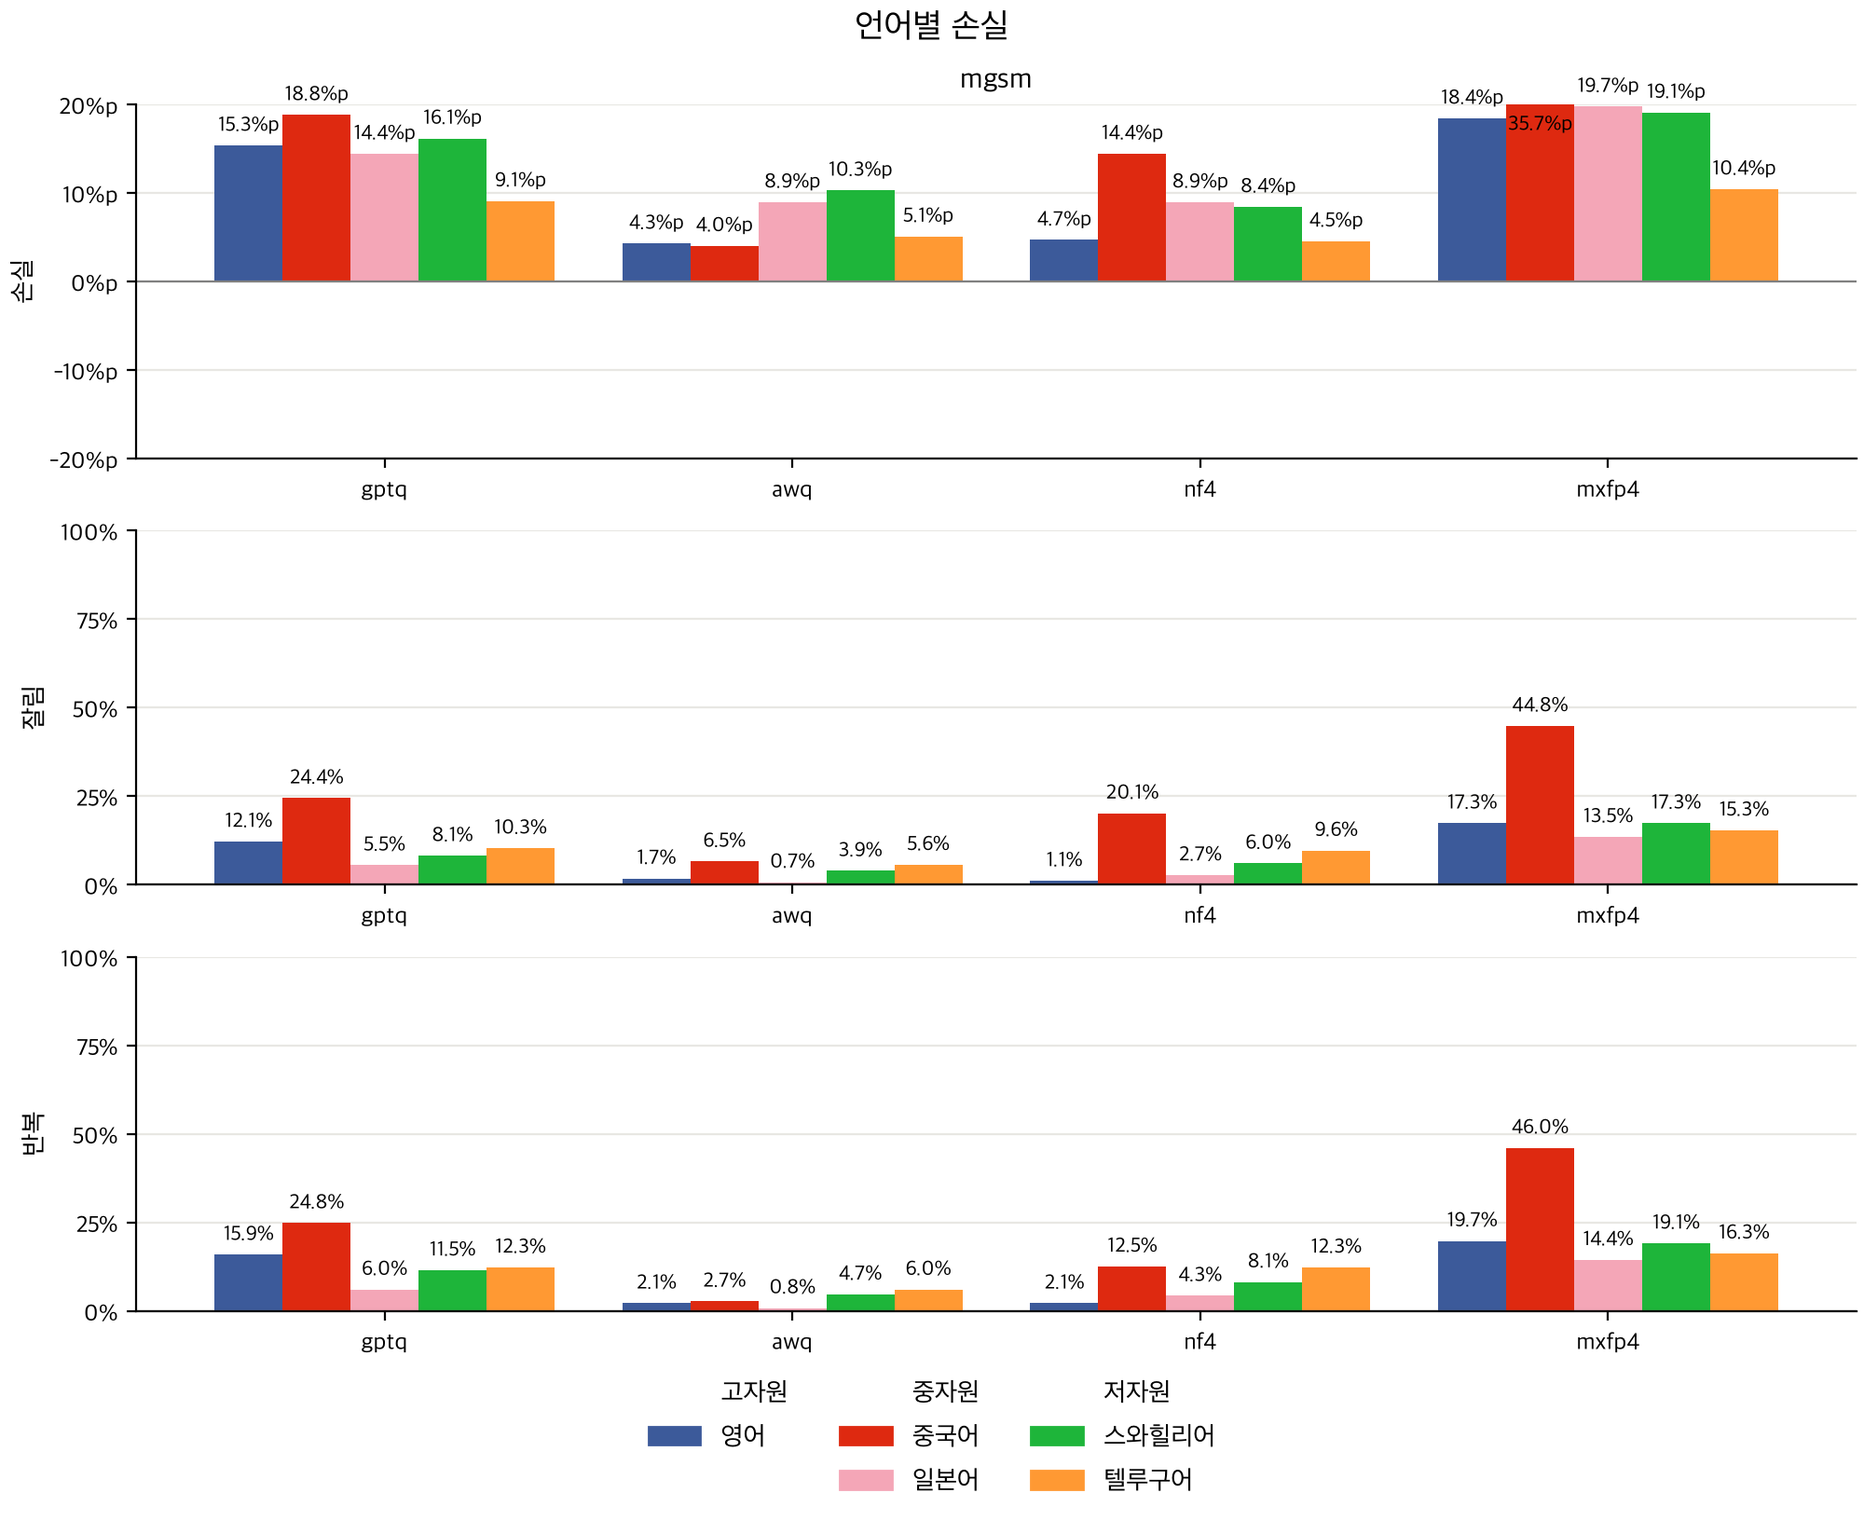
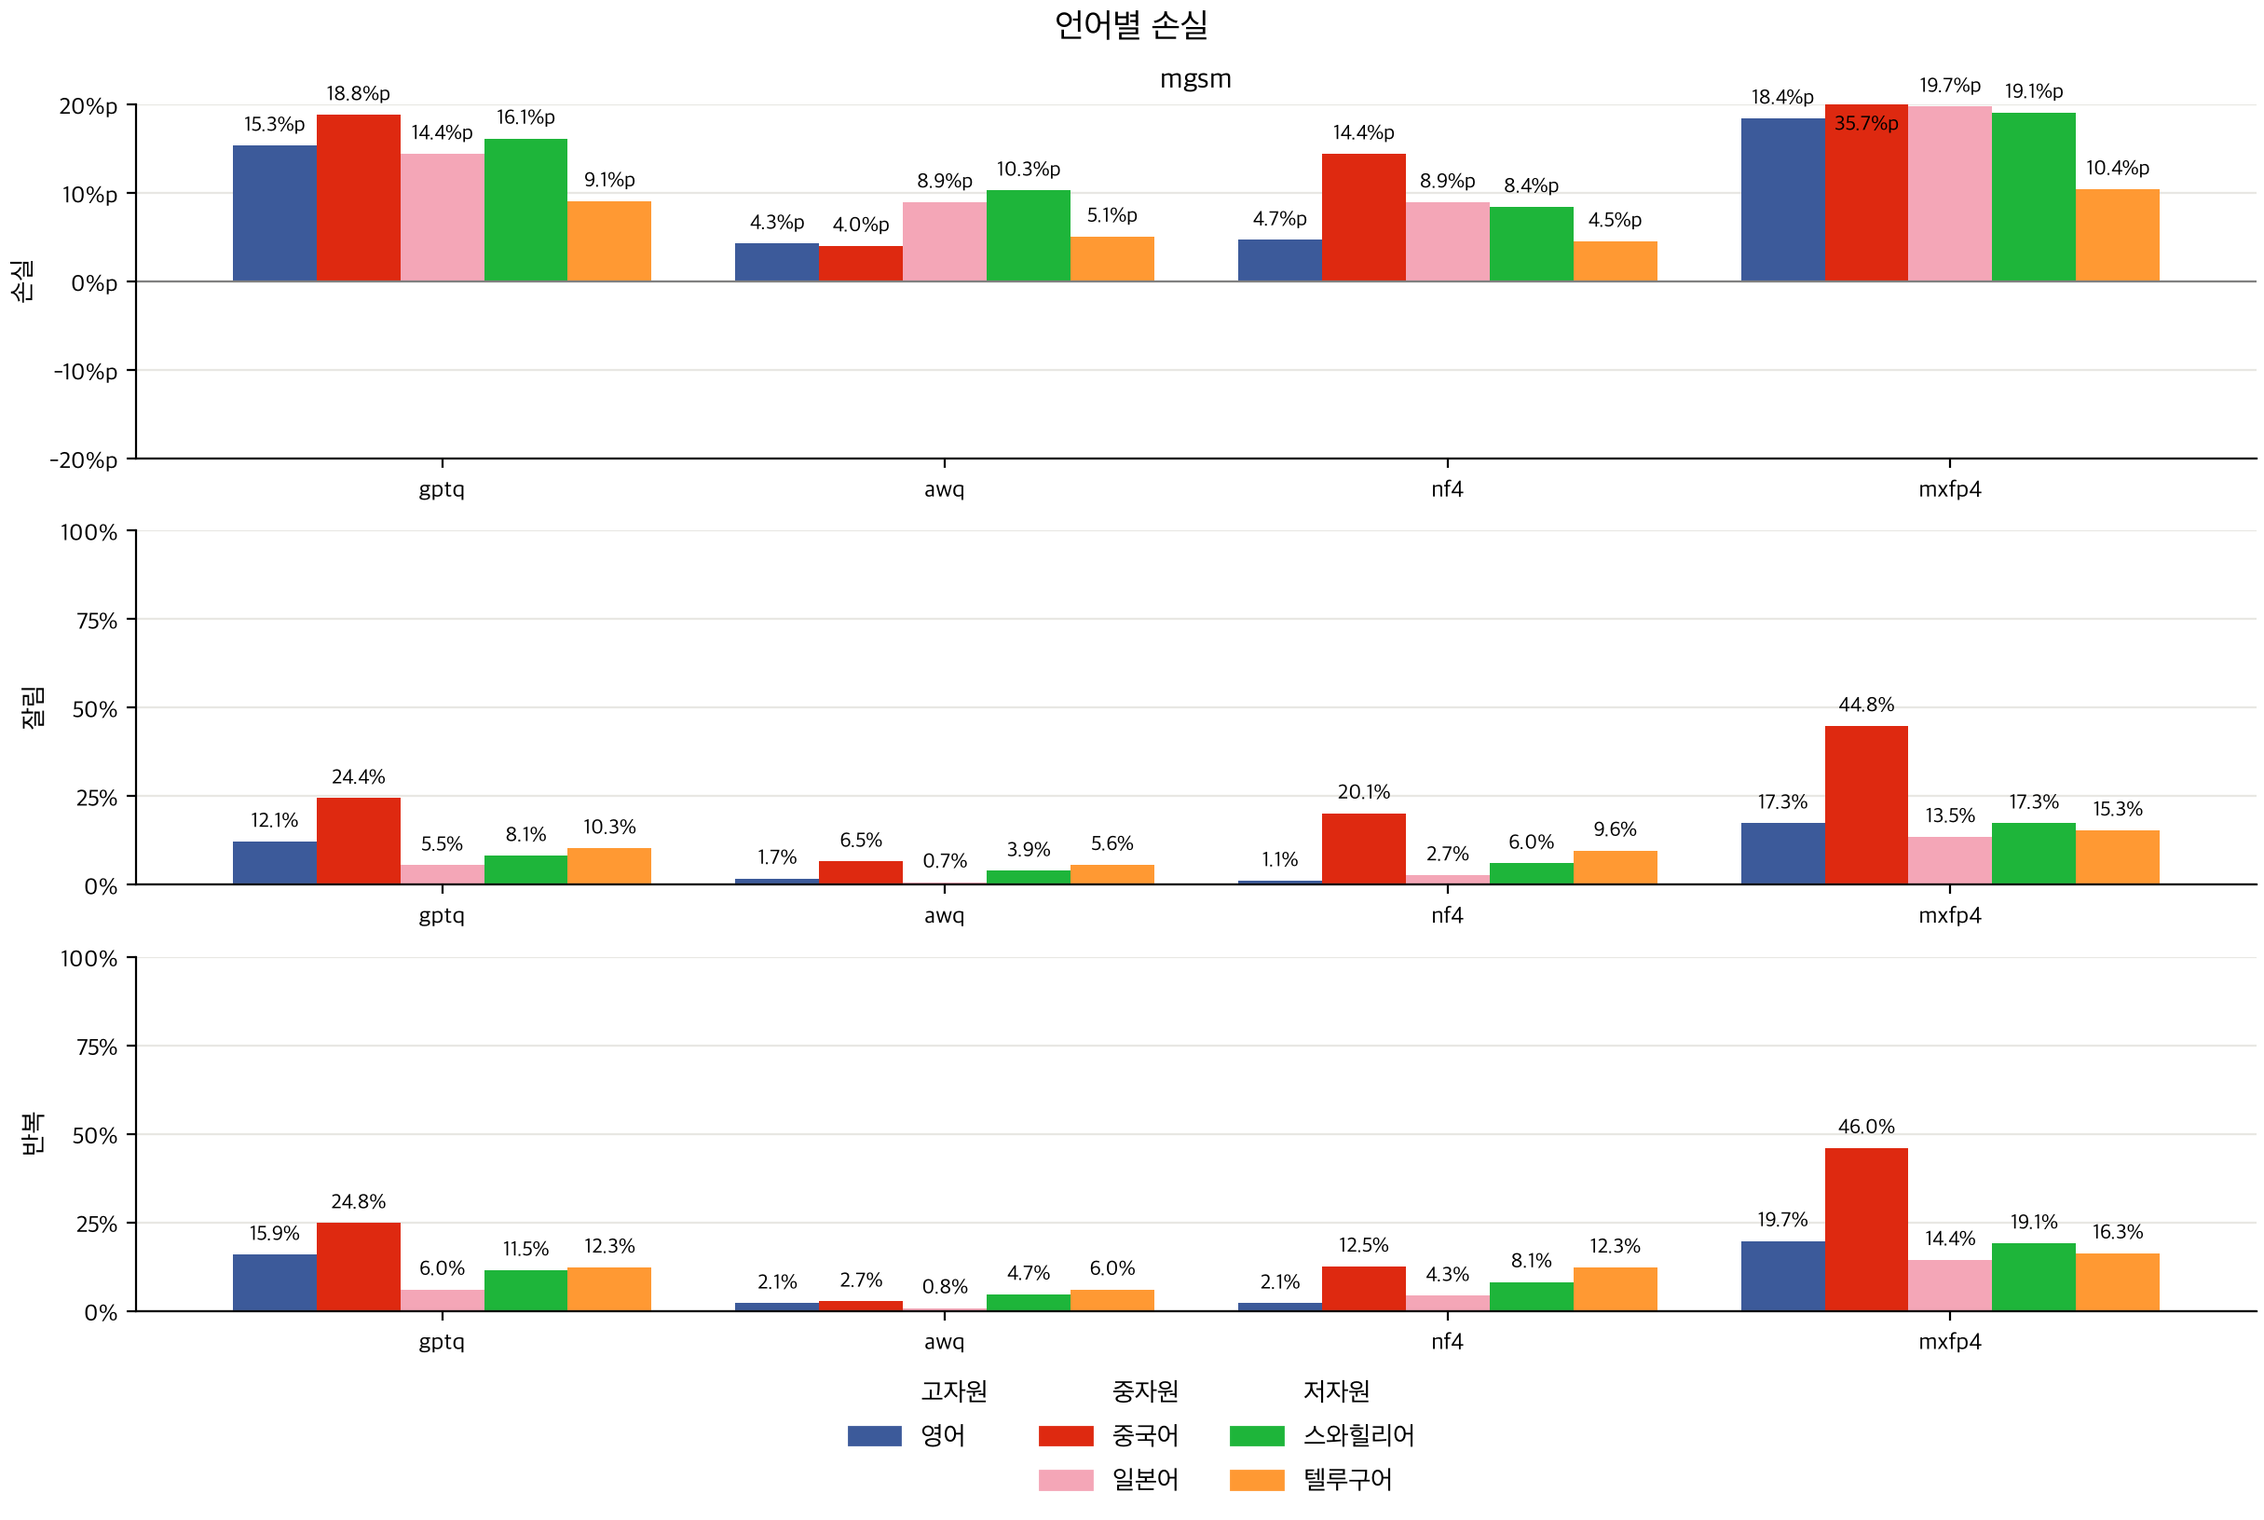
plot 막대 폭 변경

diff --git a/utils/plot.py b/utils/plot.py
@@ -3,6 +3,7 @@ from statistics import mean
 from typing import Literal, TypeAlias
 
 from matplotlib.axes import Axes
+from matplotlib.container import BarContainer
 from matplotlib.figure import Figure
 from matplotlib.patches import Patch
 import matplotlib.pyplot as plt
@@ -27,7 +28,8 @@ POSITION_LABELS = ["0~20%", "20~40%", "40~60%", "60~80%", "80~100%"]
 PANEL_HEIGHT = 1.9
 FIGURE_HEIGHT_MARGIN = 1.6
 NUM_FIT_STEPS = 3
-NUM_GROUP_SLOTS = 5
+BAR_WIDTH = 0.45
+INITIAL_FIGURE_WIDTH = 10
 
 Unit: TypeAlias = Literal["%p", "%", "배"]
 
@@ -150,15 +152,6 @@ def plot_insert_bars(
     _set_yaxis(ax, "%p")
 
 
-def set_group_xlim(
-    ax: Axes,
-    num_groups: int,
-) -> None:
-    num_group_slots = max(num_groups, NUM_GROUP_SLOTS)
-    center = (num_groups - 1) * GROUP_WIDTH / 2
-    ax.set_xlim(center - num_group_slots * GROUP_WIDTH / 2, center + num_group_slots * GROUP_WIDTH / 2)
-
-
 def make_insert_handles(
     no_insert_label: str,
     insert_label: str,
@@ -197,7 +190,7 @@ def make_problem_count_labels(
 
 def compute_figure_size(
     num_rows: int,
-    width: float,
+    width: float = INITIAL_FIGURE_WIDTH,
 ) -> tuple[float, float]:
     return width, num_rows * PANEL_HEIGHT + FIGURE_HEIGHT_MARGIN
 
@@ -213,11 +206,39 @@ def _fit_panel_height(
         fig.set_size_inches(width, height + (PANEL_HEIGHT - panel_height) * num_rows)
 
 
+def _fit_bar_width(
+    fig: Figure,
+) -> None:
+    bar_axes = []
+    for ax in fig.axes:
+        if ax.containers and isinstance(ax.containers[0], BarContainer):
+            bar_axes.append(ax)
+    if not bar_axes:
+        return
+    widest_ax = bar_axes[0]
+    for ax in bar_axes:
+        if ax.get_xlim()[1] - ax.get_xlim()[0] > widest_ax.get_xlim()[1] - widest_ax.get_xlim()[0]:
+            widest_ax = ax
+    widest_xmin, widest_xmax = widest_ax.get_xlim()
+    xlim_len = widest_xmax - widest_xmin
+    for ax in bar_axes:
+        offset = widest_ax.get_xticks()[-1] - ax.get_xticks()[-1]
+        ax.set_xlim(widest_xmin - offset, widest_xmax - offset)
+    bar_data_width = bar_axes[0].containers[0].patches[0].get_width()
+    num_columns = bar_axes[0].get_subplotspec().get_gridspec().ncols
+    for _ in range(NUM_FIT_STEPS):
+        fig.canvas.draw()
+        bar_width = bar_data_width * bar_axes[0].get_window_extent().width / fig.dpi / xlim_len
+        width, height = fig.get_size_inches()
+        fig.set_size_inches(width + (BAR_WIDTH - bar_width) * xlim_len / bar_data_width * num_columns, height)
+
+
 def save_figure(
     fig: Figure,
     model_name: str,
     figure_name: str,
 ) -> None:
+    _fit_bar_width(fig)
     _fit_panel_height(fig)
     path = Path("figures") / model_name.split("/")[1] / f"{figure_name}.png"
     path.parent.mkdir(parents=True, exist_ok=True)

diff --git a/plots/bf16_translation_insert.py b/plots/bf16_translation_insert.py
@@ -5,10 +5,8 @@ from simple_parsing import parse
 
 from utils.hub import load_bf16_results, load_results
 from utils.path import extract_method, extract_model_name, make_result_dir
-from utils.plot import LANGUAGE_NAMES, add_language_legend, compute_figure_size, make_insert_handles, plot_insert_bars, save_figure, set_group_xlim
+from utils.plot import LANGUAGE_NAMES, add_language_legend, compute_figure_size, make_insert_handles, plot_insert_bars, save_figure
 from utils.score import compute_accuracy_loss_pairs
-
-FIGURE_WIDTH = 15
 
 
 @dataclass
@@ -29,10 +27,9 @@ def main() -> None:
     all_no_insert_results = [load_results(make_result_dir("loss", "mgsm"), model_hub_path, config.max_generation_len, config.seeds) for model_hub_path in config.model_hub_paths]
     all_insert_results = [load_results(make_result_dir("bf16_translation_insert", "mgsm"), model_hub_path, config.max_generation_len, config.seeds) for model_hub_path in config.model_hub_paths]
 
-    fig, ax = plt.subplots(figsize=compute_figure_size(1, FIGURE_WIDTH), layout="constrained")
+    fig, ax = plt.subplots(figsize=compute_figure_size(1), layout="constrained")
     plot_insert_bars(ax, methods, compute_accuracy_loss_pairs(bf16_results, all_no_insert_results, all_insert_results), [])
     ax.set_ylabel("손실")
-    set_group_xlim(ax, len(methods))
 
     fig.suptitle("bf16 번역 삽입")
     add_language_legend(fig, LANGUAGE_NAMES, make_insert_handles("삽입 없음", "삽입"))

diff --git a/plots/qat_comparison.py b/plots/qat_comparison.py
@@ -6,10 +6,8 @@ from simple_parsing import parse
 from utils.dataset import Benchmark
 from utils.hub import load_bf16_results, load_results
 from utils.path import extract_method, extract_model_name, make_result_dir
-from utils.plot import LANGUAGE_NAMES, add_language_legend, compute_figure_size, plot_language_bars, save_figure, set_group_xlim
+from utils.plot import LANGUAGE_NAMES, add_language_legend, compute_figure_size, plot_language_bars, save_figure
 from utils.score import compute_accuracy_losses
-
-FIGURE_WIDTH = 15
 
 
 @dataclass
@@ -48,10 +46,9 @@ def main() -> None:
     bf16_results = load_bf16_results(config.benchmark, model_name, config.max_generation_len, config.seeds)
     all_results = [load_results(make_result_dir("loss", config.benchmark), model_hub_path, config.max_generation_len, config.seeds) for model_hub_path in config.model_hub_paths]
 
-    fig, ax = plt.subplots(figsize=compute_figure_size(1, FIGURE_WIDTH), layout="constrained")
+    fig, ax = plt.subplots(figsize=compute_figure_size(1), layout="constrained")
     plot_language_bars(ax, group_names, compute_accuracy_losses(bf16_results, all_results), "%p")
     ax.set_ylabel("손실")
-    set_group_xlim(ax, len(group_names))
 
     fig.suptitle("qat 비교")
     add_language_legend(fig, LANGUAGE_NAMES)

diff --git a/plots/reasoning_prefix_insert.py b/plots/reasoning_prefix_insert.py
@@ -11,7 +11,6 @@ from utils.score import compute_insert_losses
 from utils.understanding import LENGTH_RATIOS
 
 LENGTH_RATIO_NAMES = ["understanding 0.5배", "understanding 0.75배", "understanding 1배", "understanding 1.5배", "understanding 2배"]
-FIGURE_WIDTH = 12
 
 
 @dataclass
@@ -35,7 +34,7 @@ def main() -> None:
     for language in LANGUAGES:
         problem_indices_by_language[language] = {seed: set(result[language]["inserted_problem_indices"]) for seed, result in first_ratio_results.items()}
 
-    fig, axes = plt.subplots(len(config.model_hub_paths), 1, figsize=compute_figure_size(len(config.model_hub_paths), FIGURE_WIDTH), squeeze=False, layout="constrained")
+    fig, axes = plt.subplots(len(config.model_hub_paths), 1, figsize=compute_figure_size(len(config.model_hub_paths)), squeeze=False, layout="constrained")
     for ax, model_hub_path in zip(axes[:, 0], config.model_hub_paths):
         no_insert_results = load_results(make_result_dir("loss", "mgsm"), model_hub_path, config.max_generation_len, config.seeds)
         insert_results_by_ratio = {length_ratio: load_results(make_reasoning_prefix_result_dir(length_ratio), model_hub_path, config.max_generation_len, config.seeds) for length_ratio in LENGTH_RATIOS}

diff --git a/plots/question_finetune.py b/plots/question_finetune.py
@@ -10,7 +10,6 @@ from utils.plot import LANGUAGE_NAMES, add_language_legend, compute_figure_size,
 from utils.score import compute_accuracy_losses, compute_loop_ratio, compute_mean_values, compute_truncated_ratio
 
 FINETUNE_NAMES = ["ce\n800 sample", "ce_kl\n800 sample", "ce_kl\n4000 sample", "ce_kl\n20000 sample", "ce_kl\n29492 sample"]
-FIGURE_WIDTH = 14
 
 
 @dataclass
@@ -42,7 +41,7 @@ def main() -> None:
     for language, language_median_reasoning_lens in median_reasoning_lens.items():
         reasoning_len_ratios[language] = [median_reasoning_len / language_median_reasoning_lens[0] for median_reasoning_len in language_median_reasoning_lens[1:]]
 
-    fig, axes = plt.subplots(4, 1, figsize=compute_figure_size(4, FIGURE_WIDTH), layout="constrained")
+    fig, axes = plt.subplots(4, 1, figsize=compute_figure_size(4), layout="constrained")
     plot_language_bars(axes[0], FINETUNE_NAMES, compute_accuracy_losses(bf16_results, all_results), "%p")
     plot_language_bars(axes[1], FINETUNE_NAMES, compute_mean_values(all_results, compute_truncated_ratio), "%")
     plot_language_bars(axes[2], FINETUNE_NAMES, compute_mean_values(all_results, compute_loop_ratio), "%")

diff --git a/plots/loss.py b/plots/loss.py
@@ -11,7 +11,6 @@ from utils.score import compute_accuracy_losses, compute_loop_ratio, compute_mea
 
 SEEDS = {"mgsm": (0, 1, 2), "mmlu_prox_lite": (0,)}
 BF16_SEEDS = {"mgsm": (0, 1, 2), "mmlu_prox_lite": (0, 1)}
-FIGURE_WIDTH = 10
 
 
 @dataclass
@@ -34,7 +33,7 @@ def main() -> None:
     bf16_results = load_bf16_results(config.benchmark, model_name, config.max_generation_len, BF16_SEEDS[config.benchmark])
     all_results = [load_results(make_result_dir("loss", config.benchmark), model_hub_path, config.max_generation_len, SEEDS[config.benchmark]) for model_hub_path in config.model_hub_paths]
 
-    fig, axes = plt.subplots(3, 1, figsize=compute_figure_size(3, FIGURE_WIDTH), layout="constrained")
+    fig, axes = plt.subplots(3, 1, figsize=compute_figure_size(3), layout="constrained")
     plot_language_bars(axes[0], methods, compute_accuracy_losses(bf16_results, all_results), "%p")
     plot_language_bars(axes[1], methods, compute_mean_values(all_results, compute_truncated_ratio), "%")
     plot_language_bars(axes[2], methods, compute_mean_values(all_results, compute_loop_ratio), "%")

diff --git a/plots/en_question_insert.py b/plots/en_question_insert.py
@@ -8,8 +8,6 @@ from utils.path import extract_method, extract_model_name, make_result_dir
 from utils.plot import LANGUAGE_NAMES, add_language_legend, compute_figure_size, make_insert_handles, plot_insert_bars, save_figure
 from utils.score import compute_accuracy_loss_pairs
 
-FIGURE_WIDTH = 15
-
 
 @dataclass
 class Config:
@@ -32,7 +30,7 @@ def main() -> None:
     all_no_insert_results = [load_results(make_result_dir("loss", "mgsm"), model_hub_path, config.max_generation_len, config.seeds) for model_hub_path in config.model_hub_paths]
     all_insert_results = [load_results(make_result_dir("en_question_insert", "mgsm"), model_hub_path, config.max_generation_len, config.seeds) for model_hub_path in config.model_hub_paths]
 
-    fig, ax = plt.subplots(figsize=compute_figure_size(1, FIGURE_WIDTH), layout="constrained")
+    fig, ax = plt.subplots(figsize=compute_figure_size(1), layout="constrained")
     plot_insert_bars(ax, methods, compute_accuracy_loss_pairs(bf16_results, all_no_insert_results, all_insert_results), [])
     ax.set_ylabel("손실")
 

diff --git a/plots/calibration.py b/plots/calibration.py
@@ -9,7 +9,6 @@ from utils.plot import LANGUAGE_NAMES, add_language_legend, compute_figure_size,
 from utils.score import compute_accuracy_losses
 
 CALIBRATION_NAMES = ["영어", "스와힐리어", "텔루구어", "다섯 언어 혼합"]
-FIGURE_WIDTH = 10
 
 
 @dataclass
@@ -35,7 +34,7 @@ def main() -> None:
     model_name = extract_model_name(config.gptq_model_hub_paths[0])
     bf16_results = load_bf16_results("mgsm", model_name, config.max_generation_len, config.seeds)
 
-    fig, axes = plt.subplots(2, 1, figsize=compute_figure_size(2, FIGURE_WIDTH), layout="constrained")
+    fig, axes = plt.subplots(2, 1, figsize=compute_figure_size(2), layout="constrained")
     for ax, model_hub_paths in zip(axes, [config.gptq_model_hub_paths, config.awq_model_hub_paths]):
         all_results = [load_results(make_result_dir("loss", "mgsm"), model_hub_path, config.max_generation_len, config.seeds) for model_hub_path in model_hub_paths]
         losses = compute_accuracy_losses(bf16_results, all_results)

diff --git a/plots/en_understanding_finetune.py b/plots/en_understanding_finetune.py
@@ -9,7 +9,6 @@ from utils.plot import LANGUAGE_NAMES, add_language_legend, compute_figure_size,
 from utils.score import compute_accuracy_losses
 
 FINETUNE_NAMES = ["ce\nbf16 영어 understanding", "kl\nbf16 영어 understanding", "kl\non policy understanding", "kl\non policy reasoning", "hidden\non policy understanding"]
-FIGURE_WIDTH = 12
 
 
 @dataclass
@@ -31,7 +30,7 @@ def main() -> None:
     bf16_results = load_bf16_results("mgsm", model_name, config.max_generation_len, config.seeds)
     all_results = [load_results(make_result_dir("loss", "mgsm"), model_hub_path, config.max_generation_len, config.seeds) for model_hub_path in config.model_hub_paths]
 
-    fig, ax = plt.subplots(figsize=compute_figure_size(1, FIGURE_WIDTH), layout="constrained")
+    fig, ax = plt.subplots(figsize=compute_figure_size(1), layout="constrained")
     plot_language_bars(ax, FINETUNE_NAMES, compute_accuracy_losses(bf16_results, all_results), "%p")
     ax.set_ylabel("손실")
 

diff --git a/plots/translate_first.py b/plots/translate_first.py
@@ -14,7 +14,6 @@ from utils.score import compute_accuracy_loss_pairs
 EN_QUESTION_WINDOW_RATIO = 4
 MIN_EN_QUESTION_WORD_RATIO = 0.7
 NO_INSTRUCTION_NAME = "instruction 없음\nbf16"
-FIGURE_WIDTH = 14
 
 
 @dataclass
@@ -68,7 +67,7 @@ def main() -> None:
     all_instruction_results = [load_results(make_result_dir("translate_first", "mgsm"), model_hub_path, config.max_generation_len, config.seeds) for model_hub_path in config.model_hub_paths]
     en_questions = load_mgsm()["en"]["questions"]
 
-    fig, axes = plt.subplots(2, 1, figsize=compute_figure_size(2, FIGURE_WIDTH), layout="constrained")
+    fig, axes = plt.subplots(2, 1, figsize=compute_figure_size(2), layout="constrained")
     plot_insert_bars(axes[0], methods, compute_accuracy_loss_pairs(bf16_results, all_no_instruction_results, all_instruction_results), [])
     axes[0].set_ylabel("손실")
     translation_ratios = _compute_translation_ratios([bf16_results] + all_instruction_results, en_questions)

diff --git a/plots/qat.py b/plots/qat.py
@@ -9,7 +9,6 @@ from utils.plot import LANGUAGE_NAMES, add_language_legend, compute_figure_size,
 from utils.score import compute_accuracy_losses
 
 MODEL_NAMES = ["mxfp4", "ce_kl finetune", "ce_kl finetune\nmxfp4", "kl qat", "ce_kl qat"]
-FIGURE_WIDTH = 12
 
 
 @dataclass
@@ -31,7 +30,7 @@ def main() -> None:
     bf16_results = load_bf16_results("mgsm", model_name, config.max_generation_len, config.seeds)
     all_results = [load_results(make_result_dir("loss", "mgsm"), model_hub_path, config.max_generation_len, config.seeds) for model_hub_path in config.model_hub_paths]
 
-    fig, ax = plt.subplots(figsize=compute_figure_size(1, FIGURE_WIDTH), layout="constrained")
+    fig, ax = plt.subplots(figsize=compute_figure_size(1), layout="constrained")
     plot_language_bars(ax, MODEL_NAMES, compute_accuracy_losses(bf16_results, all_results), "%p")
     ax.set_ylabel("손실")
 

diff --git a/plots/en_understanding_insert.py b/plots/en_understanding_insert.py
@@ -9,8 +9,6 @@ from utils.path import extract_method, extract_model_name, make_result_dir
 from utils.plot import add_language_legend, compute_figure_size, make_insert_handles, make_problem_count_labels, plot_insert_bars, save_figure
 from utils.score import compute_insert_losses, find_common_inserted_problem_indices
 
-FIGURE_WIDTH = 15
-
 
 @dataclass
 class Config:
@@ -41,7 +39,7 @@ def main() -> None:
         for language in LANGUAGES:
             losses[language].append(compute_insert_losses(bf16_results, no_insert_results, insert_results, language, problem_indices_by_language[language]))
 
-    fig, ax = plt.subplots(figsize=compute_figure_size(1, FIGURE_WIDTH), layout="constrained")
+    fig, ax = plt.subplots(figsize=compute_figure_size(1), layout="constrained")
     plot_insert_bars(ax, methods, losses, [])
     ax.set_ylabel("손실")
 
